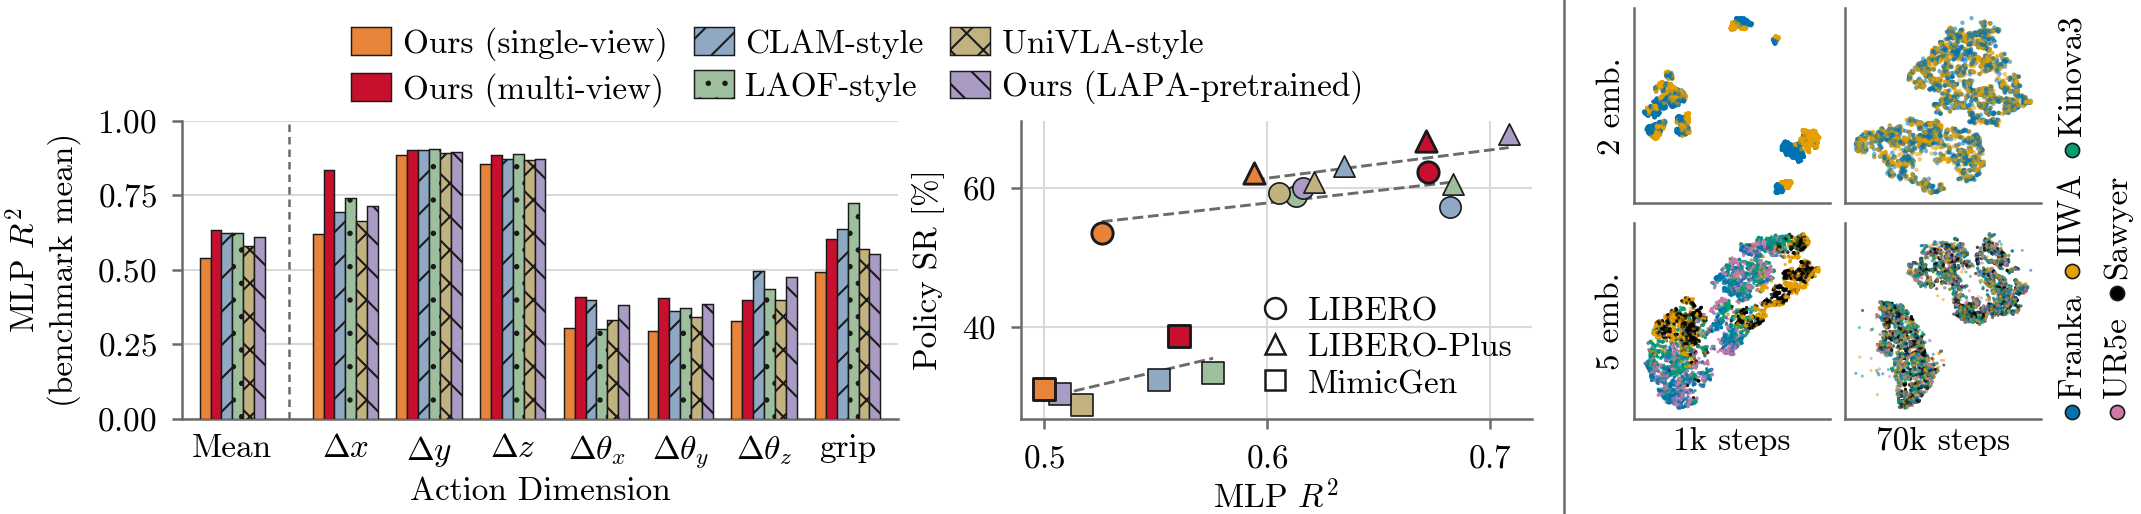
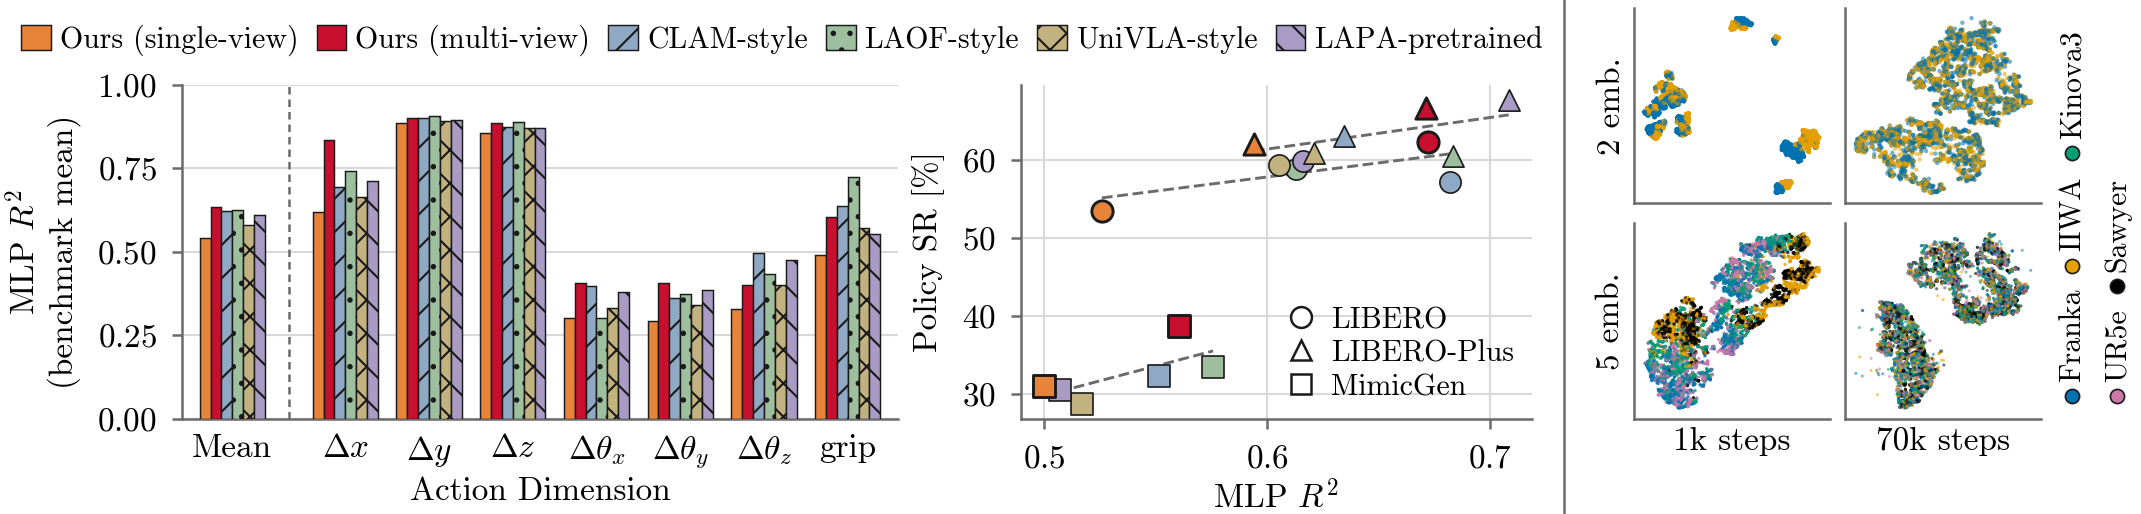
probe_tsne_combo: method key in one row left of the rule, "LAPA-pretrained" label, keys at 0.9x text; probe axes top 0.765 -> 0.835
Claude-Session: https://claude.ai/code/session_01HqdKguVdpz7yFZgq54T7mh

diff --git a/plot_probe_tsne_combo.py b/plot_probe_tsne_combo.py
@@ -57,9 +57,12 @@ ROBOT_SLOTS = {"franka": 0, "iiwa": 2, "kinova3": 1, "ur5e": 3}
 # so they never appear in the bars): one legend then serves both probe panels.
 DROP_METHODS = {"villax_cont", "villax_vq"}
 # Shorter legend labels for this figure only (the encoder detail is in the text).
-LABEL_OVERRIDES = {"dino": "UniVLA-style"}
+LABEL_OVERRIDES = {"dino": "UniVLA-style", "lapa": "LAPA-pretrained"}
 HEIGHT_FRAC = 0.24        # page height / textwidth
 ROBOT_KEY_W = 0.30        # inches: two lines of rotated robot names right of the t-SNE
+# All three keys are set this much below the axis text so the six-entry method
+# key fits one row left of the separating rule.
+LEGEND_SCALE = 0.9
 SEP_IN = 0.34             # inches between the scatter and the t-SNE block (rule + row labels)
 # robot names split across the two rotated lines, bottom-to-top within a line
 ROBOT_KEY_LINES = [["franka", "iiwa", "kinova3"], ["ur5e", "sawyer"]]
@@ -83,7 +86,7 @@ def robot_key(fig, style, x0, y0, y1, width):
         texts, lens = [], []
         for name in names:
             t = fig.text(x, 0, ROBOT_LABELS.get(name, name), rotation=90, ha="center",
-                         va="bottom", fontsize=plt_rc("legend.fontsize"))
+                         va="bottom", fontsize=legend_pt())
             bb = t.get_window_extent(renderer)
             texts.append(t)
             lens.append(bb.height / fh_px)
@@ -109,6 +112,10 @@ def plt_rc(key):
     return font_manager.FontProperties(size=v).get_size_in_points()
 
 
+def legend_pt():
+    return plt_rc("legend.fontsize") * LEGEND_SCALE
+
+
 def make_figure(probe, style, name):
     import matplotlib.pyplot as plt
     from matplotlib.gridspec import GridSpec
@@ -126,7 +133,7 @@ def make_figure(probe, style, name):
 
     w = style.TEXT_WIDTH
     h = w * HEIGHT_FRAC
-    L, R, B, T = 0.085, 0.995, 0.185, 0.765      # T caps the PROBE axes only (method legend above)
+    L, R, B, T = 0.085, 0.995, 0.185, 0.835      # T caps the PROBE axes only (one-row method legend above)
     RT = 0.985                                   # the t-SNE block runs to the top of the page
     TS_WS, TS_HS = 0.08, 0.10
     # t-SNE geometry in inches: square panels fill the full page height, the
@@ -174,7 +181,7 @@ def make_figure(probe, style, name):
         # axes.titlesize, which the science style sets larger)
         taxes[1][j].set_xlabel(col_label, labelpad=2)
 
-    # legends: methods (2 rows x 3) centred over the probe pair; benchmarks inside the
+    # legends: methods in one row over the probe pair; benchmarks inside the
     # scatter; robots as rotated text beside the t-SNE block (see robot_key)
     method_handles = [Patch(facecolor=combo.COLORS[k], hatch=combo.HATCHES[k],
                             edgecolor=style.MARKER_EDGE, linewidth=0.35, label=lab)
@@ -183,13 +190,9 @@ def make_figure(probe, style, name):
                             markerfacecolor="white", markeredgecolor=style.INK,
                             markeredgewidth=0.6, label=lab)
                      for i, (_, lab) in enumerate(srbase.SUITES)]
-    # centred over the probe pair: the key belongs to both panels
-    fig.legend(handles=method_handles, loc="upper center", ncol=3,
-               bbox_to_anchor=((L + probe_x1) / 2, 1.005),
-               frameon=False, handletextpad=0.35, columnspacing=0.8, handlelength=1.2)
     # lower right: with villa-X gone the points sit in the upper-left half
     axs.legend(handles=bench_handles, loc="lower right", frameon=False, handletextpad=0.3,
-               labelspacing=0.15, borderaxespad=0.2)
+               labelspacing=0.15, borderaxespad=0.2, fontsize=legend_pt())
     fig.canvas.draw()   # box_aspect is applied at draw time; positions are final after this
     robot_key(fig, style, x0=ts_x1 + 0.004, y0=B, y1=RT, width=key_in / w)
     # vertical rule separating the probe pair from the embodiment-mixing block:
@@ -199,6 +202,11 @@ def make_figure(probe, style, name):
     xsep = (axs.get_position().x1 + lab_x0) / 2
     fig.add_artist(Line2D([xsep, xsep], [0.0, 1.0], transform=fig.transFigure,
                           color=style.INK_MUTED, linewidth=0.6))
+    # one row, centred on everything left of the rule: the key belongs to both
+    # probe panels, and the probe pair alone is narrower than six entries
+    fig.legend(handles=method_handles, loc="upper center", ncol=len(method_handles),
+               bbox_to_anchor=(xsep / 2, 1.005), frameon=False, handletextpad=0.3,
+               columnspacing=0.6, handlelength=1.0, fontsize=legend_pt())
     return style.save(fig, name)
 
 
